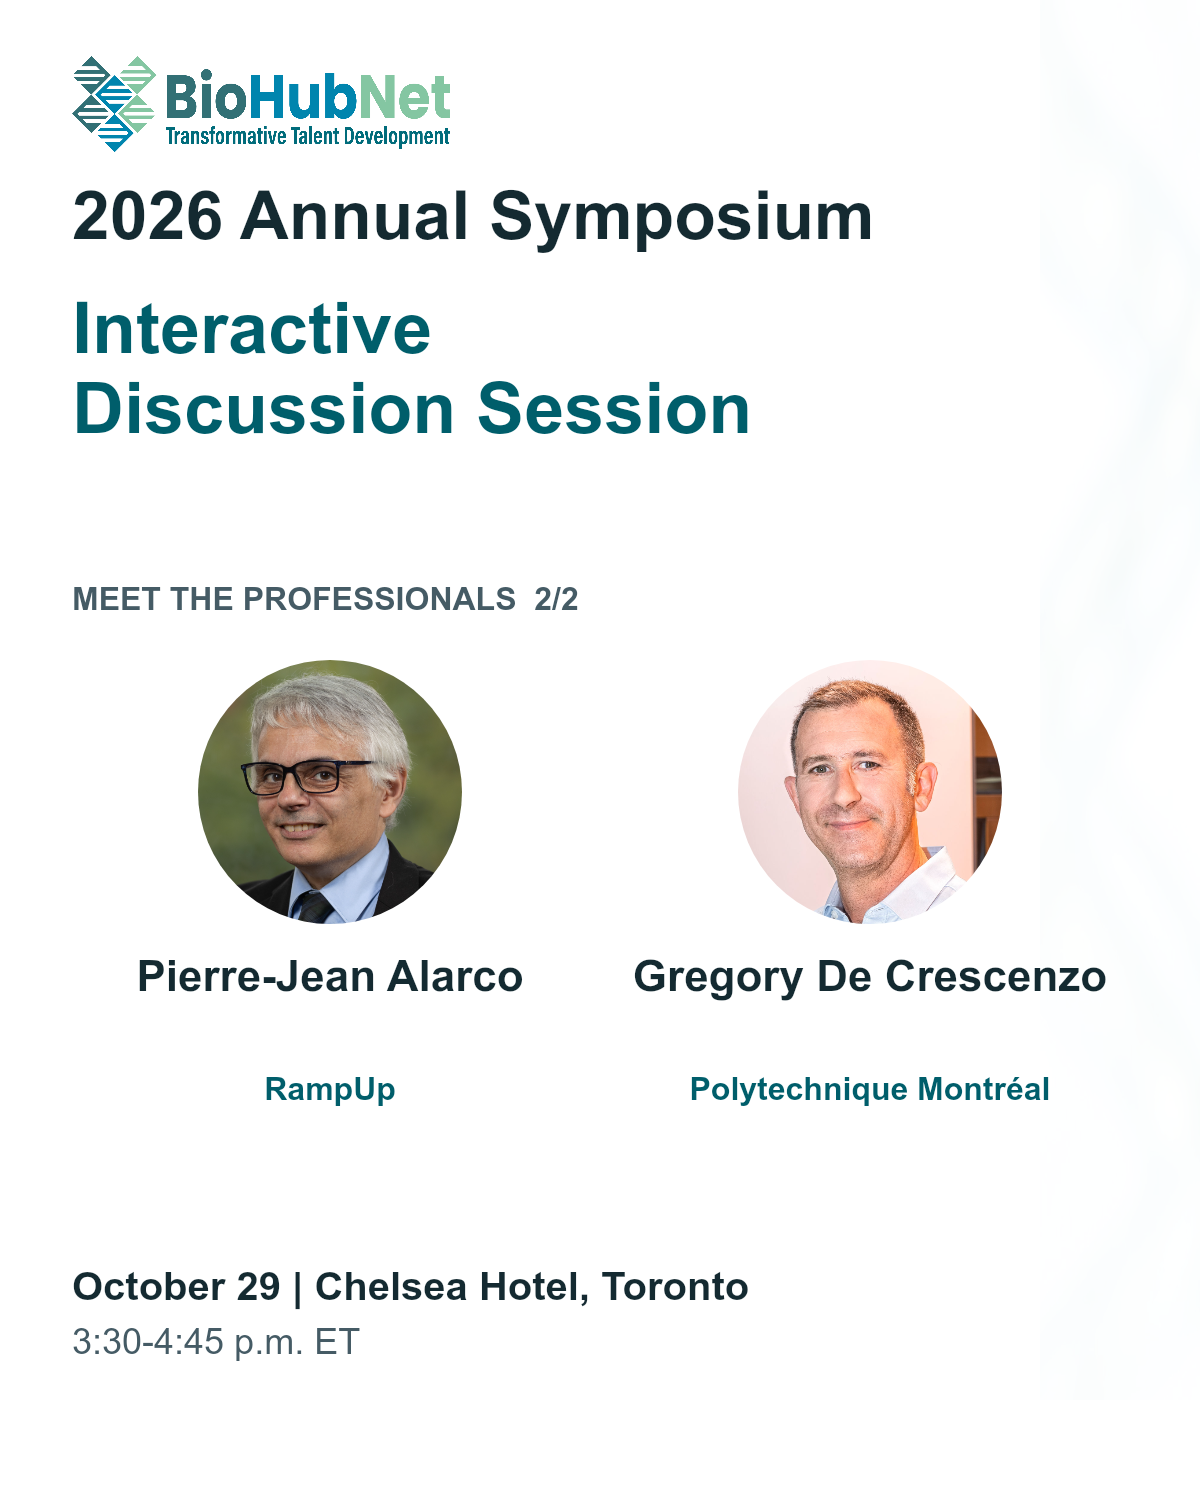
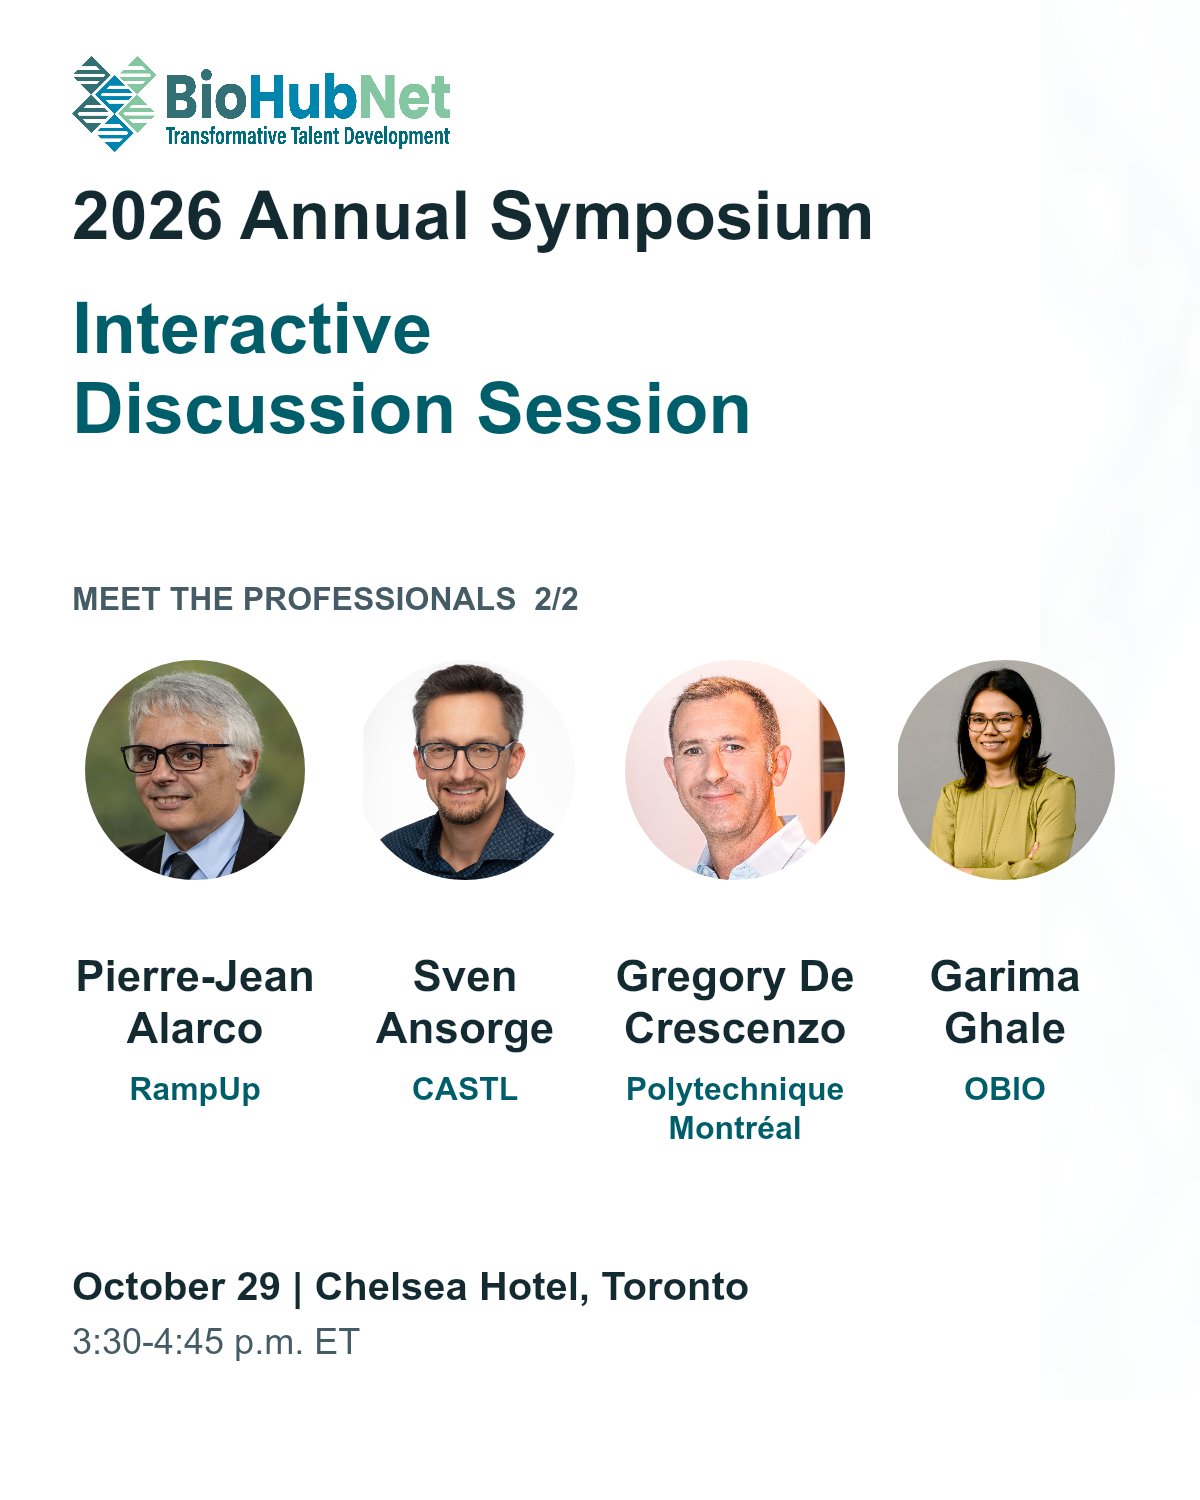
Group all seven symposium discussion leads into two social posts

diff --git a/src/lib/social/symposium-discussion-posts.ts b/src/lib/social/symposium-discussion-posts.ts
@@ -1,4 +1,4 @@
-// Only people not featured in published symposium posts as of October 22, 2026.
+// Discussion groups requested by Ruilin on October 26, 2026.
 export const DISCUSSION_GROUPS = [
   {
     number: 1,
@@ -17,7 +17,9 @@ export const DISCUSSION_GROUPS = [
     theme: null,
     people: [
       { name: "Pierre-Jean Alarco", title: "Knowledge Mobilization Officer", company: "RampUp", graphicCompany: "RampUp" },
+      { name: "Sven Ansorge", title: "Director, Technical Training and Innovation", company: "CASTL", graphicCompany: "CASTL" },
       { name: "Gregory De Crescenzo", title: "Professor", company: "Polytechnique Montreal", graphicCompany: "Polytechnique Montréal" },
+      { name: "Garima Ghale", title: "Associate Director, Programs & Strategic Partnerships", company: "OBIO", graphicCompany: "OBIO" },
     ],
     closing: "Meet people working across knowledge mobilization, research and biomanufacturing training. Bring a question, share your perspective and explore connections across the life sciences community.",
   },
@@ -29,8 +31,8 @@ export const SYMPOSIUM_DISCUSSION_POSTS = DISCUSSION_GROUPS.map((group) => ({
   workshopSlug: null,
   suggestedDate: "2026-10-23T13:00:00Z",
   sourceUrl: "https://biohubnet.ca/2026-annual-symposium/",
-  assetUrl: `https://bhn-training-platform.vercel.app/social/symposium-2026/discussion-${group.number}.png?v=20261022-no-registration-cta`,
-  graphicBrief: `BioHubNet logo, large 2026 Annual Symposium and Interactive Discussion Session headings. Unretouched original rounded headshots: ${group.people.map((p) => p.name).join(", ")}. Names and organizations only; titles stay in the caption. Spacious white layout with a restrained glass edge. October 29 | Toronto. Registration is closed; no registration CTA. ${group.theme ? `Approved topic: ${group.theme}.` : "Do not invent a table topic."} People already featured in published posts are excluded.`,
+  assetUrl: `https://bhn-training-platform.vercel.app/social/symposium-2026/discussion-${group.number}.png?v=20261026-discussion-groups`,
+  graphicBrief: `BioHubNet logo, large 2026 Annual Symposium and Interactive Discussion Session headings. Unretouched original rounded headshots: ${group.people.map((p) => p.name).join(", ")}. Names and organizations only; titles stay in the caption. Spacious white layout with a restrained glass edge. October 29 | Toronto. Registration is closed; no registration CTA. ${group.theme ? `Approved topic: ${group.theme}.` : "Do not invent a table topic."} Use the discussion groups requested on October 26, 2026.`,
   body: `${group.hook}
 
 Join the Interactive Discussion Session at BioHubNet's 2026 Annual Symposium.

diff --git a/tests/unit/symposium-discussion-posts.test.ts b/tests/unit/symposium-discussion-posts.test.ts
@@ -4,14 +4,17 @@ import { DISCUSSION_GROUPS, SYMPOSIUM_DISCUSSION_POSTS } from "../../src/lib/soc
 import { NETWORKING_GROUPS } from "../../src/lib/social/symposium-networking-posts";
 import { withSocialTags } from "../../src/lib/social/tags";
 
-test("remaining session drafts cover nine people once and exclude people already featured", () => {
+test("discussion groups cover the requested seven people once, alongside the remaining networking draft", () => {
   const names = [...NETWORKING_GROUPS[3].people.map((p) => p.name), ...DISCUSSION_GROUPS.flatMap<string>((g) => g.people.map((p) => p.name))];
-  assert.equal(names.length, 9);
-  assert.equal(new Set(names).size, 9);
-  for (const name of ["Mona Abu Nameh", "Jasmine Hamilton", "Sven Ansorge", "Anu Vajjala", "Kathy Lee", "Yosuke Niibori", "Angela Davoud", "Donghoon Lee", "Cynthia Elias", "David Sealey", "Lynne Liu", "Liz Csaszar", "Shadan Ashfaie"]) {
+  assert.equal(names.length, 11);
+  assert.equal(new Set(names).size, 11);
+  for (const name of ["Mona Abu Nameh", "Jasmine Hamilton", "Anu Vajjala", "Kathy Lee", "Yosuke Niibori", "Angela Davoud", "Donghoon Lee", "Cynthia Elias", "David Sealey", "Lynne Liu", "Liz Csaszar", "Shadan Ashfaie"]) {
     assert.ok(!names.includes(name), name);
   }
-  assert.deepEqual(DISCUSSION_GROUPS.map((g) => g.people.length), [3, 2]);
+  assert.deepEqual(DISCUSSION_GROUPS.map((g) => g.people.map((p) => p.name)), [
+    ["Jessica Tate", "Juliana Jy", "Angela Shaoxu Li"],
+    ["Pierre-Jean Alarco", "Sven Ansorge", "Gregory De Crescenzo", "Garima Ghale"],
+  ]);
   for (const post of SYMPOSIUM_DISCUSSION_POSTS) {
     const text = withSocialTags(post.body);
     assert.ok(text.length < 2500);
